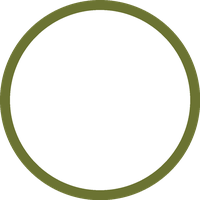
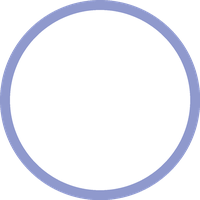
changed colors and added save location

Changed region(s): [[0.0, 0.0, 1.0, 1.0]]

diff --git a/main.py b/main.py
@@ -2,14 +2,14 @@ import textwrap
 
 import PySimpleGUI as sg
 from PIL import Image, ImageDraw, ImageFont
-from win32api import GetSystemMetrics
+from win32.win32api import GetSystemMetrics
+import pickle
 
 
-# ---------------------------------------------Draw Variables------------------------------------------------------------#
+# --------------------------------------------------------------------Draw---------------------------------------------------------------------------------#
 
-# -----------------------------------------------------------------------------------------------------------------------#
 
-def drawImage(text_en, text_de, text_it, difficulty, maxtxtsize, name):
+def drawImage(text_en, text_de, text_it, difficulty, maxtxtsize, name, save_location):
     # image size
     size = 1000
     # border size, the smaller, the bigger the border is??
@@ -21,6 +21,7 @@ def drawImage(text_en, text_de, text_it, difficulty, maxtxtsize, name):
     # creates image
     img = Image.new('RGBA', (size, size), (255, 0, 0, 0))
 
+
     draw = ImageDraw.Draw(img)
 
     # Text Size
@@ -29,11 +30,11 @@ def drawImage(text_en, text_de, text_it, difficulty, maxtxtsize, name):
     # sets  border color for difficulty
     # 0 = easy (green), 1 = medium(orange), 2 = hard (red)
     if difficulty == 'Easy':
-        border_color = (107, 115, 50)
+        border_color = (143, 153, 205)
     elif difficulty == 'Normal':
-        border_color = (255, 234, 94)
+        border_color = (107, 115, 50)
     elif difficulty == 'Extreme':
-        border_color = (255, 118, 94)
+        border_color = (122, 7, 39)
 
     # draws an ellipse with the border color, the size of the image. The it draws a smaller withe ellipse over the first
     # one. The difference between the two is the border width
@@ -75,7 +76,7 @@ def drawImage(text_en, text_de, text_it, difficulty, maxtxtsize, name):
     # tries to apply antialiasing, but it doesnt seem to work
     # TODO revisit antialiasing
     img = img.resize((size, size), Image.ANTIALIAS)
-    img.save(name + '.png')
+    img.save(save_location + '/' + name + '.png')
     img = img.resize((200, 200), Image.ANTIALIAS)
     img.save('files/thumbnail.png')
 
@@ -87,15 +88,18 @@ def drawImage(text_en, text_de, text_it, difficulty, maxtxtsize, name):
     print("Text Size: " + str(txtSize))
     print("relativ Border thickness: " + str(relBorder))
     print("relativ max Text size: " + str(maxtxtsize))
+    print("Save Location: " + save_location + '/' + name + '.png')
 
 
 def refreshPreview():
     sg.popup_animated(image_source=None)
     sg.popup_animated(image_source='files/thumbnail.png', title="Preview",
                       location=(GetSystemMetrics(0) / 5, GetSystemMetrics(1) / 2))
+                      
+# --------------------------------------------------------------------------------------------------------------------------------------------------------#
 
 
-# -------------------------------------------GUI Variables---------------------------------------------------------------#
+# -----------------------------------------------------------------------GUI------------------------------------------------------------------------------#
 
 # define theme
 sg.theme('SystemDefault1')
@@ -108,13 +112,14 @@ layout = [
     [sg.Text('English', size=(15, 1)), sg.InputText()],
     [sg.Text('Italian', size=(15, 1)), sg.InputText()],
     [sg.Text('Choose Filename', size=(15, 1)), sg.InputText(default_text='file')],
+    [sg.Text('Save Location',  size=(15,1)), sg.Input() ,sg.FolderBrowse()],
     [sg.Save(), sg.Button('Refresh'), sg.Quit()]
 
 ]
 
 # Create the window
-window = sg.Window("Demo", layout)
-drawImage("", "", "", 'Easy', 70, "default")
+window = sg.Window("DarePonger", layout)
+drawImage("", "", "", 'Easy', 70, "default", "F:/Users/inama")
 sg.popup_animated(image_source='files/thumbnail.png', title="Preview",
                   location=(GetSystemMetrics(0) / 5, GetSystemMetrics(1) / 2), keep_on_top=False)
 
@@ -122,12 +127,12 @@ while True:  # The Event Loop
     event, values = window.read()
 
     if event == 'Save':
-        drawImage(values[1], values[2], values[3], values[0], 70, values[4])
+        drawImage(values[1], values[2], values[3], values[0], 70, values[4], values[5])
         refreshPreview()
         print(event, values)
 
     if event == 'Refresh':
-        drawImage(values[1], values[2], values[3], values[0], 70, "default")
+        drawImage(values[1], values[2], values[3], values[0], 70, "default", "F:/Users/inama")
         refreshPreview()
 
     if event == sg.WIN_CLOSED or event == 'Exit':
@@ -137,6 +142,6 @@ while True:  # The Event Loop
 
 window.close()
 
-# -----------------------------------------------------------------------------------------------------------------------#
+# --------------------------------------------------------------------------------------------------------------------------------------------------------#
 
-# TODO new font and make font choosable. Implement settings, that can be saved
+#TODO new font and make font choosable. Implement settings, that can be saved
